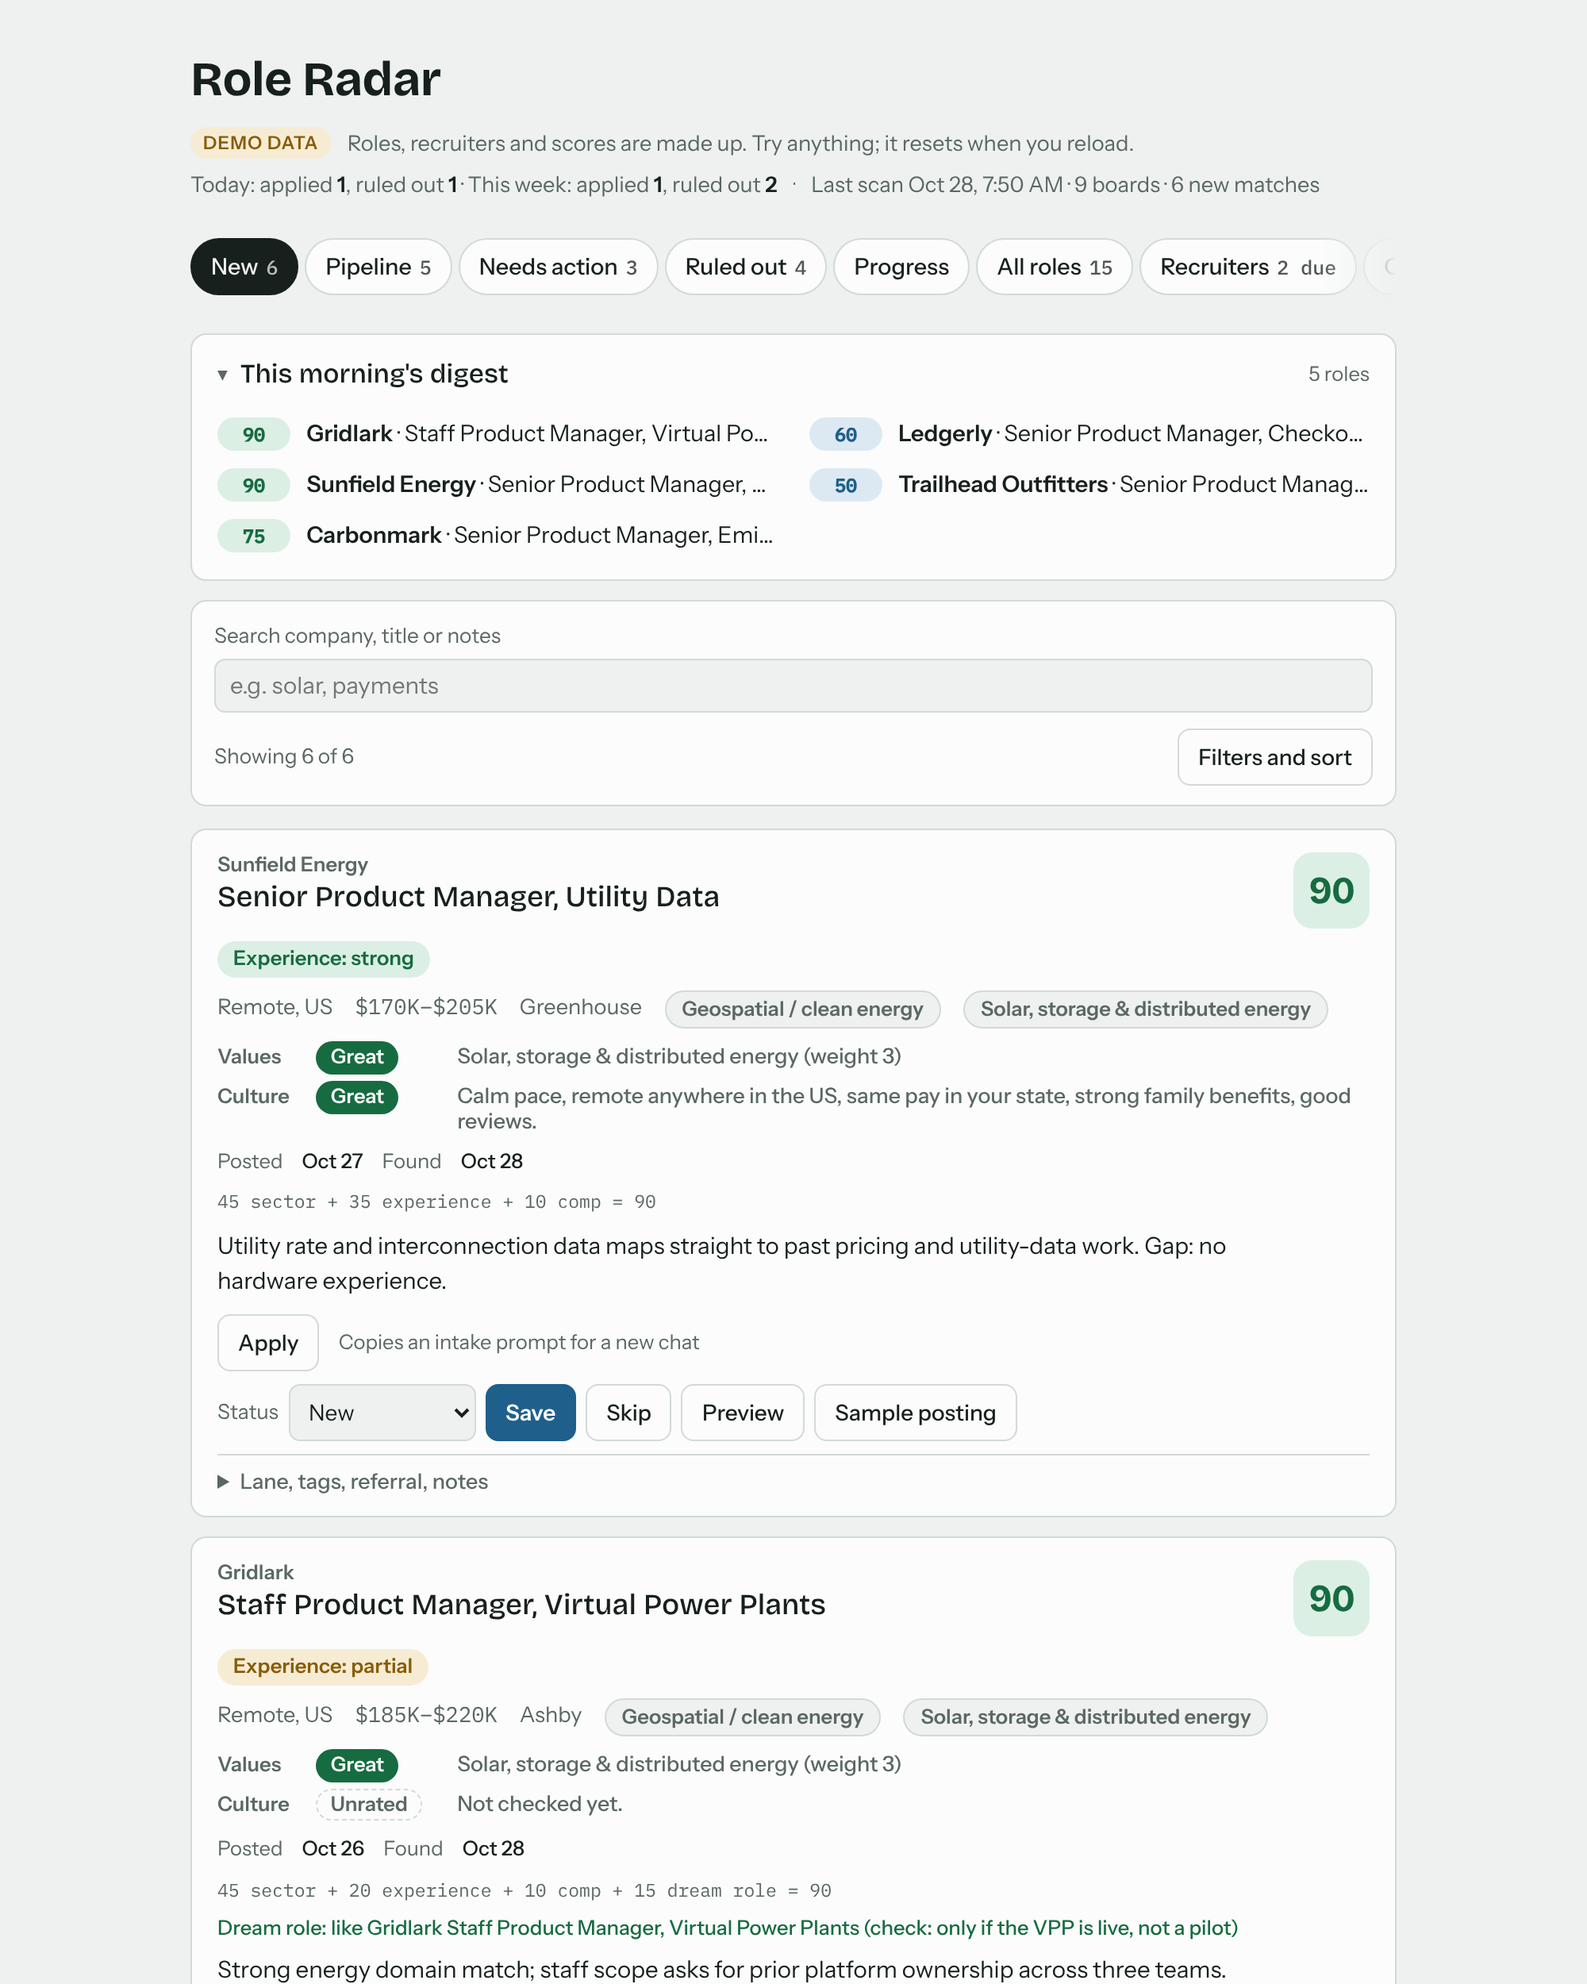
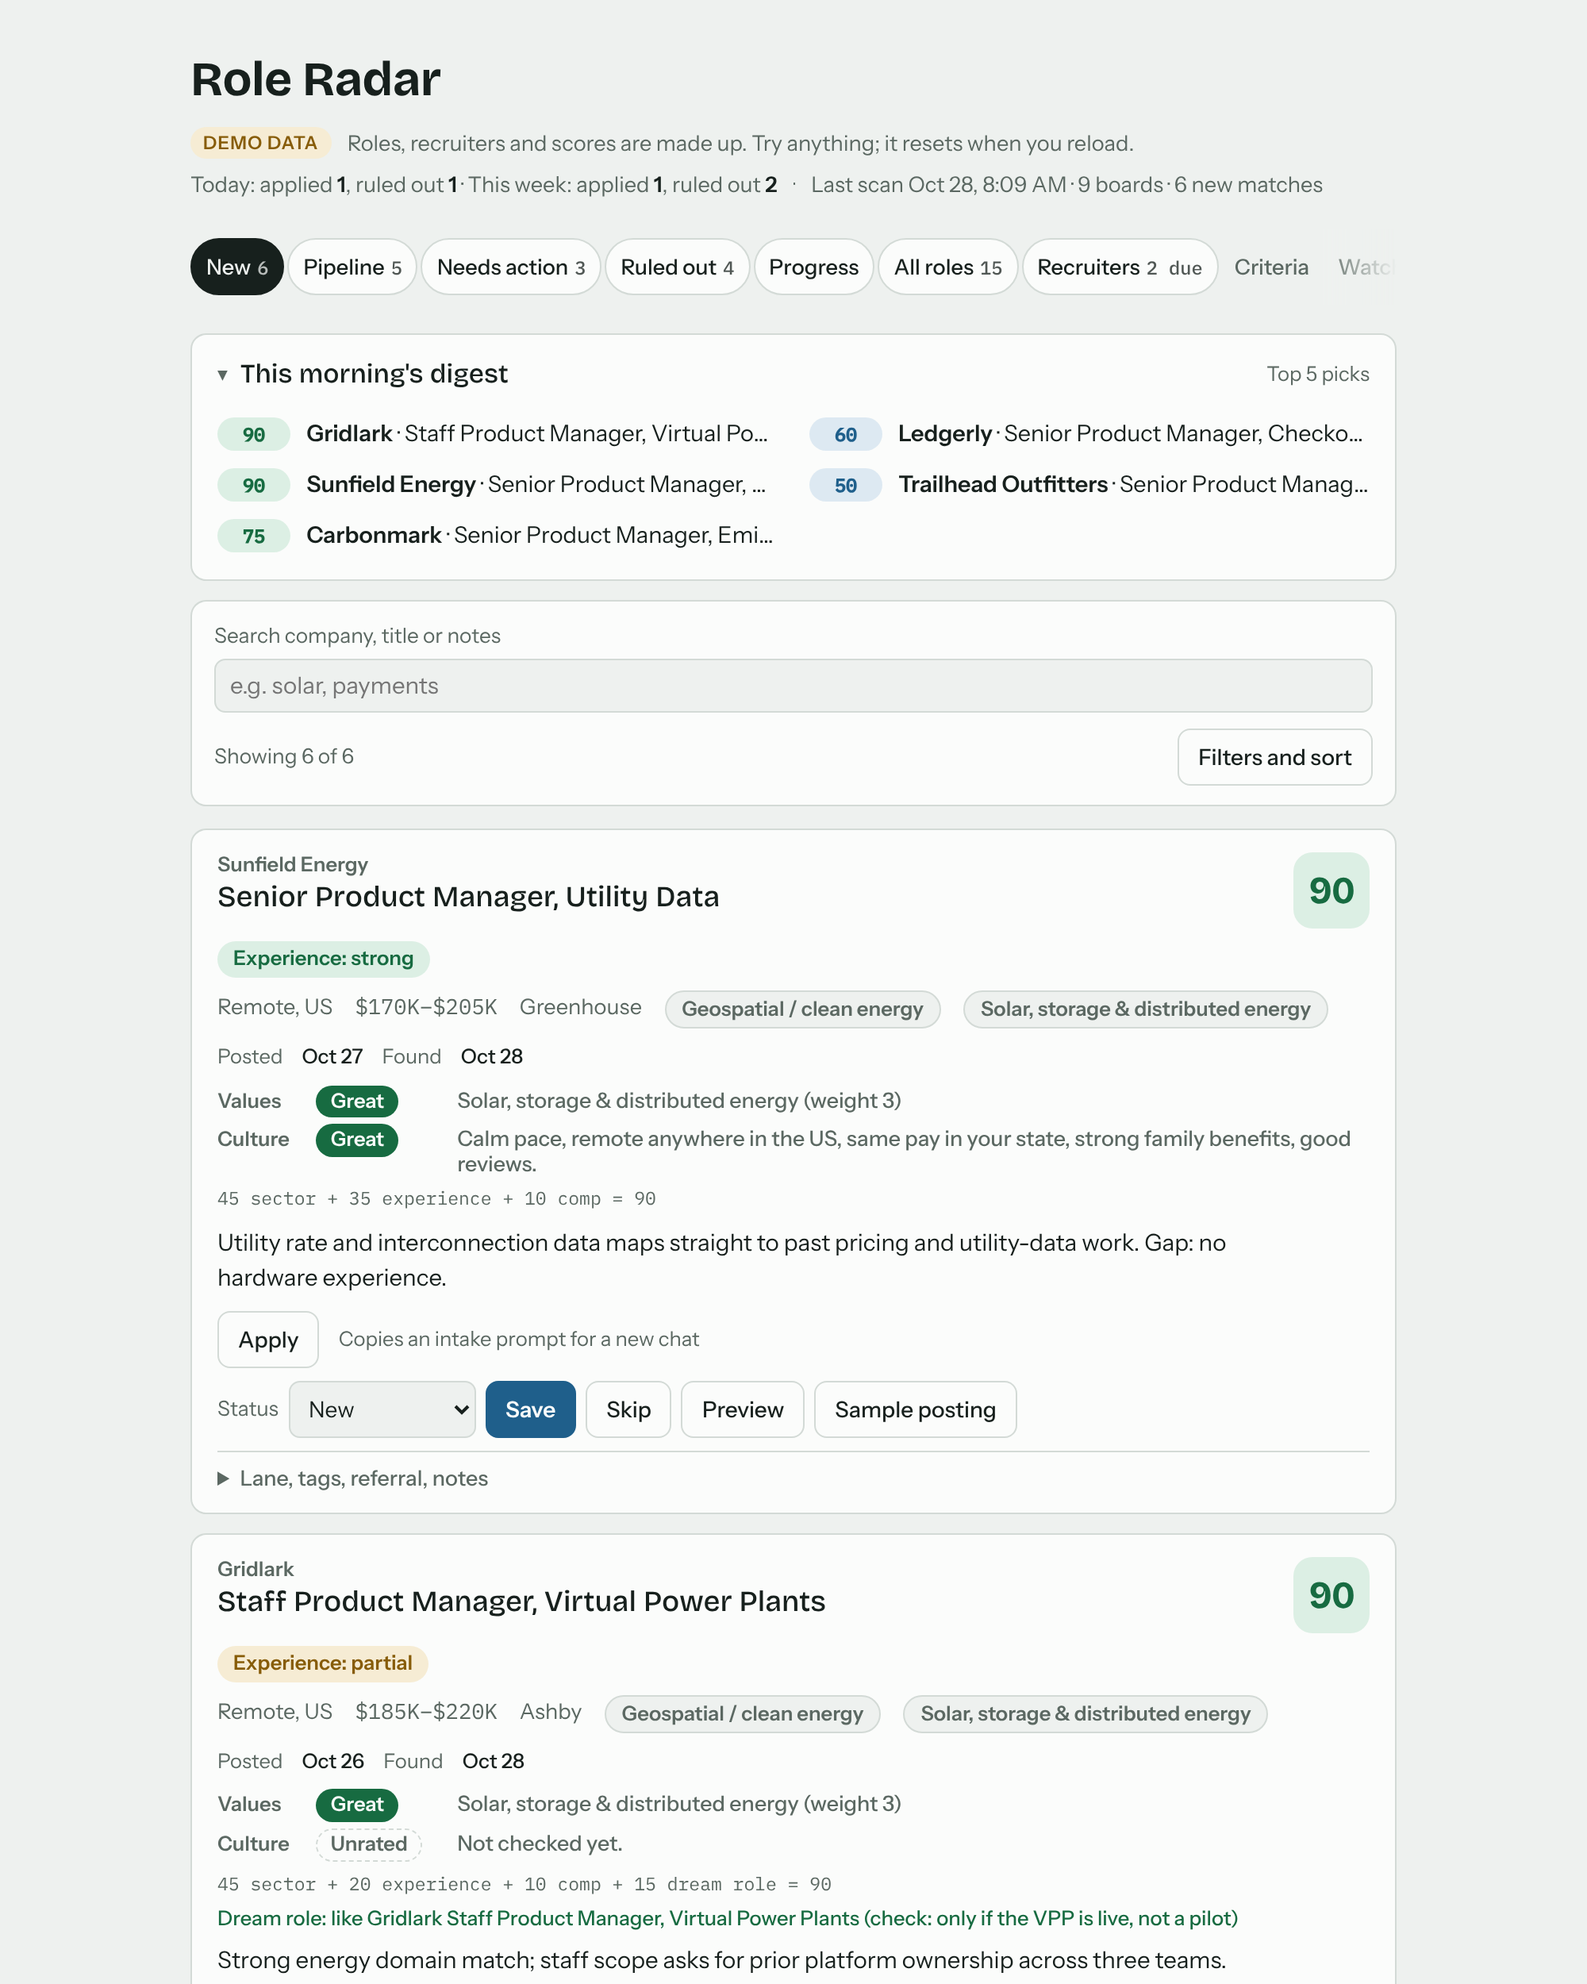
RR-M3.6: UI round RR-UX6 (tabs fit at 900px+, compact phone cards, digest wording)
Claude-Session: https://claude.ai/code/session_01S2xZTupe2qe2vZrkJ8z2XQ

diff --git a/app/role-radar.html b/app/role-radar.html
@@ -39,6 +39,12 @@ h1{font-family:var(--f-display);font-weight:700;font-size:1.9rem;letter-spacing:
 #tabs button:hover{border-color:var(--accent)}
 #tabs button[aria-selected="true"]{background:var(--ink);color:var(--bg);border-color:var(--ink)}
 #tabs .n{font-family:var(--f-mono);font-size:.78rem;opacity:.75}
+/* Wide screens: every tab fits in one row with no sideways scroll (RR-UX6-1). Settings sit as a quieter group on the right. */
+@media (min-width:900px){#tabs{gap:2px}#tabs button{padding:0 9px;font-size:.85rem;gap:4px}#tabs .n{font-size:.74rem}
+  #tabs button.set{background:none;border-color:transparent;color:var(--muted);padding:0 7px}
+  #tabs button.set:hover{color:var(--ink);border-color:var(--line)}
+  #tabs button.set[aria-selected="true"]{background:var(--ink);color:var(--bg);border-color:var(--ink)}
+  #tabs button.set1{margin-left:auto}}
 button:focus-visible,input:focus-visible,select:focus-visible,textarea:focus-visible,a:focus-visible{outline:2px solid var(--accent);outline-offset:2px}
 .list{display:grid;gap:12px}
 .job{background:var(--surface);border:1px solid var(--line);border-radius:10px;padding:14px 16px;display:grid;gap:8px;min-width:0}
@@ -230,6 +236,13 @@ details.more form{display:grid;gap:10px;padding-top:10px}
 .rec .next{display:flex;flex-wrap:wrap;gap:6px 10px;align-items:center;font-size:.9rem}
 .rec .next b{font-weight:600}
 .why-score{font:400 .72rem/1.45 var(--f-mono);color:var(--muted)}
+/* "Why <score>?": Values/Culture and the score math, open on wide screens, one tap away on a phone (RR-UX6-2). */
+.whybox{display:grid;gap:6px}.whybtn{display:none}
+@media (max-width:600px){.whybtn{display:inline-flex;align-items:center;gap:4px;min-height:44px;margin-block:-12px}.whybtn::after{content:"\25BE";font-size:.8em}.whybtn[aria-expanded="true"]::after{content:"\25B4"}
+  .whybox:not(.open){display:none}.ctl .wide-only{display:none}
+  /* One row of actions: status picker takes the spare width, its visible "Status" word stays for screen readers. */
+  .ctl label.sr{flex:1 1 96px;min-width:0}.ctl label.sr select{width:100%;min-width:0}.ctl>.btn{flex:none;padding-inline:12px}
+  .ctl .stl{position:absolute;width:1px;height:1px;overflow:hidden;clip:rect(0 0 0 0);white-space:nowrap}}
 .why-score span{white-space:nowrap}
 .dream-note{font:500 .8rem var(--f-body);color:var(--good);margin:0}
 /* Header meta in two rows: demo badge + note, then today's progress · last scan (RR-UX5-2). */
@@ -357,6 +370,7 @@ let recruiters=[], editRec=null, filtersOpen=false;
 const RS=window.RoleRadarRecruiters||null;
 let recStore=null, savedTab=null;
 const showPeople=()=>TOOLS&&!!recStore&&recStore.visible;
+const SET_TABS=["criteria","watch","filters"]; // settings, grouped at the right of the tab rail on wide screens
 const tabList=()=>TABS.filter(t=>t.id!=="people"||showPeople());
 // Privacy: recruiter details are hidden on screen until this viewer chooses to show them.
 let recPrivate=true;
@@ -374,7 +388,7 @@ let skipFb=null, critFrom=null;
 let preview=null, previewFrom=null; const postings=new Map();
 // jobs: "loading" until the first snapshot, "error" if the read fails. Neither ever shows an empty tracker.
 let jobsState="loading", dbChecked=false;
-let tab="inbox", jobs=[], companies=[], filters=null, scan=null, db=null, view={...DEF_VIEW}, openMore=new Set(), skipOpen=null;
+let tab="inbox", jobs=[], companies=[], filters=null, scan=null, db=null, view={...DEF_VIEW}, openMore=new Set(), openWhy=new Set(), skipOpen=null;
 try{const t=localStorage.getItem("rr-tab"); if(t==="people"&&TOOLS) savedTab=t; else if(TABS.some(x=>x.id===t)) tab=t; const v=JSON.parse(localStorage.getItem("rr-view")||"null"); if(v) view={...DEF_VIEW,...v};}catch(e){}
 const saveView=()=>{try{localStorage.setItem("rr-view",JSON.stringify(view))}catch(_){}};
 // Deep links: ?tab=<id> opens a tab (it beats the remembered one), #role-<id> jumps to a role card.
@@ -461,7 +475,7 @@ function counts(){
 function renderTabs(){
   const c=counts();
   if(tab==="people"&&!showPeople()) tab="inbox";
-  $("#tabs").innerHTML=tabList().map(t=>`<button role="tab" id="tab-${t.id}" aria-selected="${t.id===tab}" data-tab="${t.id}">${t.label}${c[t.id]!==""?` <span class="n">${c[t.id]}${t.id==="people"?" due":""}</span>`:""}</button>`).join("");
+  $("#tabs").innerHTML=tabList().map(t=>`<button role="tab" id="tab-${t.id}" aria-selected="${t.id===tab}" data-tab="${t.id}"${SET_TABS.includes(t.id)?` class="set${t.id===SET_TABS[0]?" set1":""}"`:""}>${t.label}${c[t.id]!==""?` <span class="n">${c[t.id]}${t.id==="people"?" due":""}</span>`:""}</button>`).join("");
   tabsInView();
 }
 // One-row tab bar (RR-UX5-1): scroll the selected tab into view and fade whichever edge hides more tabs.
@@ -542,6 +556,8 @@ function jobCard(j){
   const cf=conflictOf(j);
   const cfChip=cf?`<span class="chip conflict" title="Overlaps a product you're building">Conflict</span>`:"";
   const why=tab==="action"?actionReason(j):null;
+  // Values/Culture and the score math: always shown on wide screens, behind "Why <score>?" on a phone (RR-UX6-2).
+  const whyBody=fitRows(j)+scoreLine(j), whyOpen=openWhy.has(j._id);
   // One primary (solid accent) action per card: the natural next step for its status. The rest stay outlined.
   const fupDue=s==="applied"&&j.followUpDue&&j.followUpDue<=today();
   const cta=INBOX.includes(s)?"save":s==="saved"&&TOOLS?"apply":s==="applying"?"applied":fupDue?"fup":"";
@@ -569,10 +585,10 @@ function jobCard(j){
       <span>${esc(srcName(j.source||j.ats||""))}</span>
       ${laneChip}
       ${j.sector?`<span class="chip lane">${esc(j.sector)}</span>`:""}
+      ${whyBody?`<button class="linkbtn whybtn" type="button" data-why="${id}" aria-expanded="${whyOpen}" aria-controls="why-${id}">Why ${typeof j.score==="number"?esc(j.score):"this score"}?</button>`:""}
     </div>
-    ${fitRows(j)}
     ${datesLine(j)}
-    ${scoreLine(j)}
+    ${whyBody?`<div class="whybox${whyOpen?" open":""}" id="why-${id}">${whyBody}</div>`:""}
     ${tags.length?`<div class="tags">${tags.map(t=>`<span class="tag">${esc(t)}</span>`).join("")}</div>`:""}
     ${j.fitNote?`<p class="note">${esc(j.fitNote)}</p>`:""}
     ${j.nextStep?`<p class="note"><b>Next:</b> ${esc(j.nextStep)}</p>`:""}
@@ -583,14 +599,14 @@ function jobCard(j){
       ${!TOOLS?"":resumeUrl?`<a class="resume" href="${esc(resumeUrl)}" target="_blank" rel="noopener">${esc(j.resumeName||"Tailored resume")} ↗</a>`:(j.resumeName?`<span class="hint">Resume: ${esc(j.resumeName)}</span>`:preApply?`<span class="hint">Copies an intake prompt for a new chat</span>`:"")}
     </div>`:""}
     <div class="ctl">
-      <label class="sr" style="display:flex;gap:6px;align-items:center">Status
+      <label class="sr" style="display:flex;gap:6px;align-items:center"><span class="stl">Status</span>
         <select id="st-${id}" data-setstatus="${id}">${stOpts}</select></label>
       ${INBOX.includes(s)?`<button class="${btn("save")}" type="button" data-quick="saved" data-job="${id}">Save</button>`:""}
       ${s==="applying"?`<button class="${btn("applied")}" type="button" data-quick="applied" data-job="${id}">I submitted it</button>`:""}
       ${fupDue?`<button class="${btn("fup")}" type="button" data-fupsent="${id}">Follow-up sent</button>`:""}
       ${!DONE.includes(s)?`<button class="btn" type="button" data-quick="skipped" data-job="${id}">Skip</button>`:""}
       <button class="btn" type="button" data-preview="${id}" aria-expanded="${preview===j._id}">Preview</button>
-      ${url?`<a class="btn" href="${esc(url)}" target="_blank" rel="noopener" style="text-decoration:none" data-view="${id}">Open posting</a>`:sample?`<button class="btn" type="button" data-sample="${id}">Sample posting</button>`:""}
+      ${url?`<a class="btn wide-only" href="${esc(url)}" target="_blank" rel="noopener" style="text-decoration:none" data-view="${id}">Open posting</a>`:sample?`<button class="btn wide-only" type="button" data-sample="${id}">Sample posting</button>`:""}
     </div>
     ${skipRow}
     <details class="more" data-more="${id}"${openMore.has(j._id)?" open":""}>
@@ -696,12 +712,12 @@ function digestCard(){
   const n=d.items.length;
   const body=n?`<ol class="dig">${d.items.map(x=>{const a=roleAnchor(x.job._id); return `<li><a href="#${a}" data-role="${a}" title="${esc(x.job.company)} · ${esc(x.job.title)}"><span class="score${x.result.score>=70?" hi":""}">${esc(x.result.score)}</span><span class="t"><b>${esc(x.job.company)}</b> · ${esc(x.job.title)}</span></a></li>`;}).join("")}</ol>`
     :`<p class="hint">Nothing in New clears the minimum score yet.</p>`;
-  return `<details class="ccard" id="digestCard"${open?" open":""}><summary><h2>This morning's digest</h2><span class="hint">${n} ${n===1?"role":"roles"}</span></summary>${body}</details>`;
+  return `<details class="ccard" id="digestCard"${open?" open":""}><summary><h2>This morning's digest</h2><span class="hint">${n===1?"Top pick":`Top ${n} picks`}</span></summary>${body}</details>`;
 }
 function renderJobs(){
   const base=jobs.filter(j=>inTab(j,tab));
   const list=sortList(applyView(base));
-  const head=(tab==="inbox"?digestCard():"")+filterBar()+(tab==="pipeline"?(TOOLS?gmailStatus():"")+addRoleForm():"");
+  const head=(tab==="inbox"?digestCard():"")+(base.length?filterBar():"")+(tab==="pipeline"?(TOOLS?gmailStatus():"")+addRoleForm():"");
   let body;
   if(!list.length){
     const msg=base.length?["No roles match these filters","Clear a filter to see more."]:{inbox:["Nothing new right now","The morning scan adds matching roles here. Open one and it's marked viewed; save or skip it to clear it out."],
@@ -1326,6 +1342,9 @@ document.addEventListener("click",async e=>{
   const dl=e.target.closest&&e.target.closest("#digestCard a[data-role]");
   if(dl){ e.preventDefault(); focusRole(dl.dataset.role); return; }
   if(e.target.closest("#pvClose")){ closePreview(); return; }
+  const wb=e.target.closest("[data-why]");
+  if(wb){ const id=wb.dataset.why, on=!openWhy.has(id); on?openWhy.add(id):openWhy.delete(id);
+    wb.setAttribute("aria-expanded",String(on)); document.getElementById(wb.getAttribute("aria-controls"))?.classList.toggle("open",on); return; }
   const pv=e.target.closest("[data-preview]");
   // A plain click on the title previews; Cmd/Ctrl/Shift/middle click still opens the posting in a new tab.
   if(pv&&!(pv.tagName==="A"&&(e.metaKey||e.ctrlKey||e.shiftKey||e.altKey||e.button!==0))){

diff --git a/HANDOFF.md b/HANDOFF.md
@@ -108,7 +108,7 @@ _Updated 2026-10-24._
 - RR-M3.3 UI to 8/10 (`claude/project-thread-6wmh2k-m3-3`, stacked on M3.2), round 1: ux-reviewer 5/10 before (390: 4.5, 1280: 5.5), 6.5/10 after. `tests/ui-polish.test.mjs` RR-UX3-1..7, red first: score is a 48px tile top-right; phone tabs are one scrolling row (still not sticky) so the first card is above the fold; full-width phone titles; one filled primary action per card (`.btn.cta`); aligned Values/Culture rows; accent links; 16px body and one sentence-case label style. README screenshots regenerated. 236 tests, green 3x. Round 2: RR-UX4-1..8 red first, then fixed: filters fold behind the toggle at every width (supersedes the old "wide screen shows filters" test, rewritten to the new rule), 44px Pipeline section rows, phone fit reasons on their own line, at most one accent action per card, "Start from the example" primary on an empty editor, "Open Criteria" on a first-run New tab, compact score math, a solid error card with a filled Reload. 244 tests, green 3x. Screenshots regenerated. ux-reviewer after round 2: 7.0/10 (390 and 1280); next gap is the laptop first screen (tabs wrap to 2 rows, 3-4 grey header lines).
 - RR-M3.4 harden (`claude/project-thread-6wmh2k-m3-4`, stacked on M3.3): new `.github/workflows/ci.yml` runs the personal-data check, `npm test` (unit + browser tests in Chromium) and the demo build on every PR and push to main; `pages.yml` now deploys only after `ci` succeeds on a push to main (`workflow_run`), with Pages write permissions on the deploy job only; `.github/dependabot.yml` (npm + actions, weekly, grouped); README CI badge. qa-tdd sweep mapped every core flow to tests and added `tests/hardening-4.test.mjs` (RR-H-11..28) and `tests/ci-config.test.mjs`: 11 real bugs, all fixed (Save details now redraws, long strings no longer widen the page, blank inputs refused with a message, "Untitled role", unknown statuses shown honestly, YAML lists refused, null Gmail messages skipped, 2,000 roles: All tab 6.6s -> 0.7s, search 7.7s -> 0.2s). privacy-security: safe to ship, no P0/P1. 265 tests, green 3x. First CI run caught a timing flake in the skip-form focus check (read focus the same tick as the click); the test now waits for focus.
 - RR-M3.5 enhancements (`claude/project-thread-6wmh2k-m3-5`, stacked on M3.4), picked for recruiter impact: (1) "This morning's digest" card at the top of New (what the scan would send, from a shared `digestOf()` that the Criteria preview also uses; open at 900px+, collapsed on phones; entries jump to the role). (2) Deep links: `?tab=<id>` (hidden tabs never open from a link), tab clicks keep the URL in sync, `#role-<id>` focuses a role card. `tests/enhancements.test.mjs` RR-M3.5-1..14, red first. 279 tests, green 3x. CI caught RR-H-21 at 502ms (limit 500): the digest card re-ranked all New roles on every search keystroke; `digestOf()` now caches while jobs and criteria are unchanged (keystroke 258-392ms -> 144-196ms locally).
-- RR-M3.6 final UI round + demo check (`claude/project-thread-6wmh2k-m3-6`, stacked on M3.5): RR-UX5-1 tabs are one tighter row (scrolls sideways with an edge fade and arrow/Home/End keys when they don't fit), RR-UX5-2 header meta on two lines so the first role is above the fold at 1280x800 with the digest open, RR-UX5-3 no Apply on applied-or-later roles, RR-UX5-5 buttons never wrap. Red first in `tests/ui-polish.test.mjs`. 283 tests, green 3x.
+- RR-M3.6 final UI round + demo check (`claude/project-thread-6wmh2k-m3-6`, stacked on M3.5): RR-UX5-1 tabs are one tighter row (scrolls sideways with an edge fade and arrow/Home/End keys when they don't fit), RR-UX5-2 header meta on two lines so the first role is above the fold at 1280x800 with the digest open, RR-UX5-3 no Apply on applied-or-later roles, RR-UX5-5 buttons never wrap. Red first in `tests/ui-polish.test.mjs`. 283 tests, green 3x. ux-reviewer then 7.3/10. Round RR-UX6: at 900px+ Criteria, Watchlist and Scan rules sit as a quieter group on the right so every public tab fits (the private build, with Recruiters, still scrolls slightly); on phones Values/Culture and the score math sit behind a "Why <score>?" button and Sample posting is desktop-only, so New cards are under 460px; digest says "Top 5 picks"; the filter bar hides on empty tabs. 286 tests, green 3x.
 - Night shift 2026-10-23 (hardening), draft PR #31: done and marked ready. Round 3 review found nothing at P2 or above (one P2 leftover also fixed: dates and pay inside sentences now use the body font). 127 tests, green 3x.
 - Power hour (Chase, 2026-10-22): PRs #20-#25 (recruiter-ready) and #16 (dream-role anchors, 93/93 tests on the merge) are merged to main. PR #18 (job description preview) merged 2026-10-23 after bringing main in; live page republished with `posting.js` the same day.
 - Public demo: merged (PR #17), repo renamed to `role-radar`, redeployed, Pages green after #25. Waiting on a phone check of the live URL and https, and on the portfolio repoint (intake with Chase).
